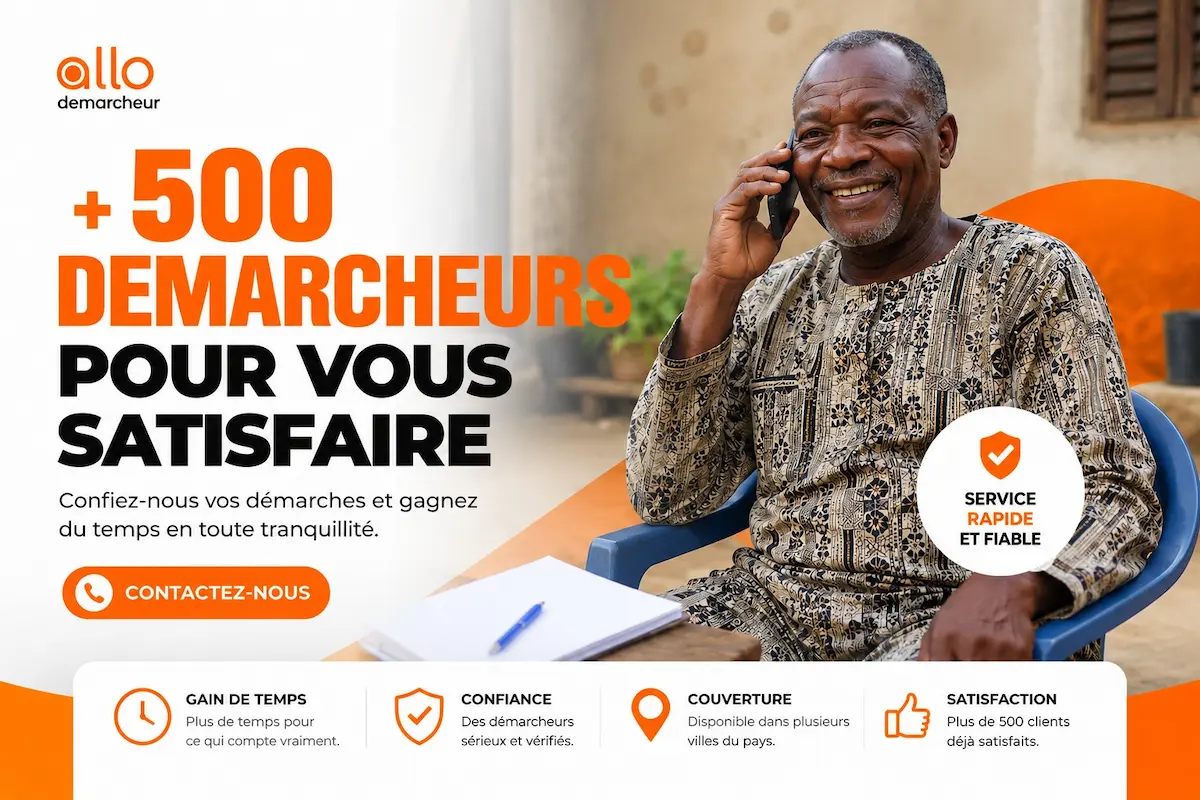
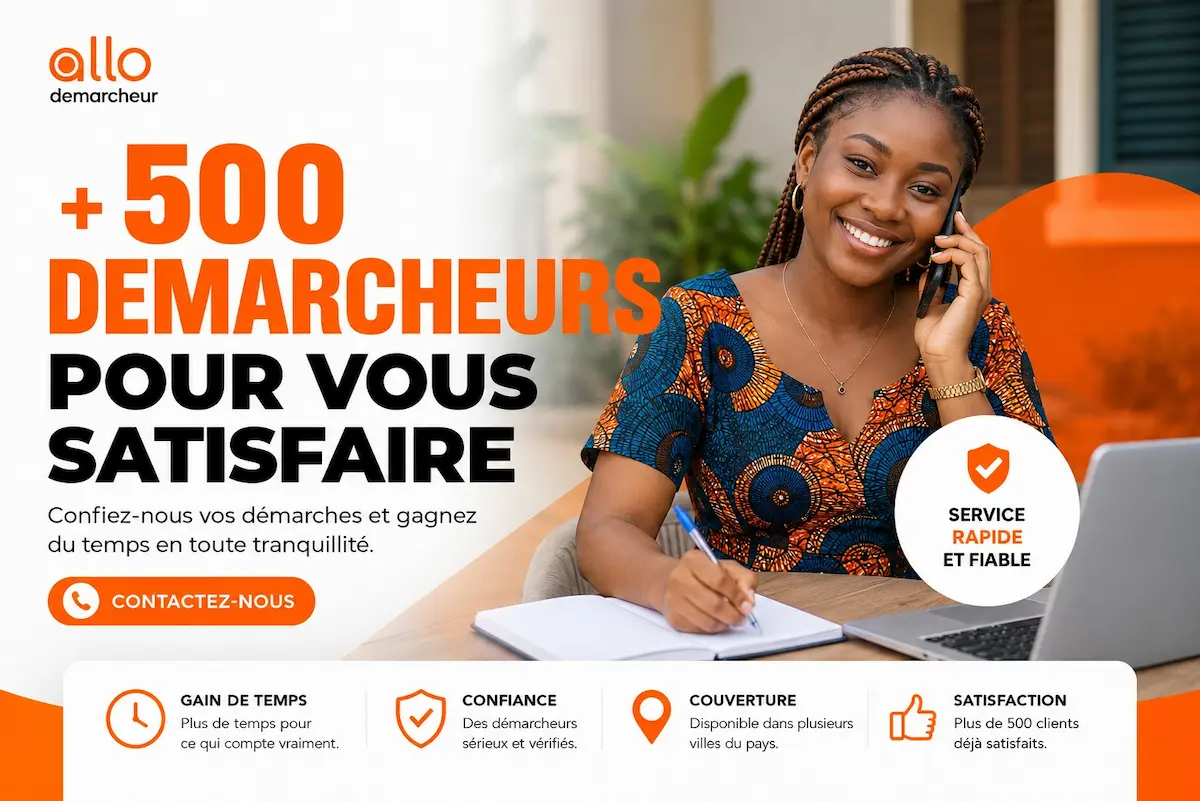
poerssss

diff --git a/demarcheur.html b/demarcheur.html
@@ -116,15 +116,18 @@
                         <div class="hero-carousel" aria-label="Galerie démarcheur">
                             <div class="hero-carousel-track">
                                 <img src="images/uxdemarcheur1.webp" alt="Service immobilier" class="hero-carousel-slide visual-card-img active" style="width: 100%; height: 100%;">
-                                
+                                <img src="images/uxdemarcheur2.webp" alt="Réseau démarcheur" class="hero-carousel-slide visual-card-img" style="width: 100%; height: 100%;">
                                 <img src="images/uxdemarcheur3.webp" alt="Réseau démarcheur" class="hero-carousel-slide visual-card-img" style="width: 100%; height: 100%;">
                                 <img src="images/uxdemarcheur4.webp" alt="Réseau démarcheur" class="hero-carousel-slide visual-card-img" style="width: 100%; height: 100%;">
+                                <img src="images/uxdemarcheur5.webp" alt="Réseau démarcheur" class="hero-carousel-slide visual-card-img" style="width: 100%; height: 100%;">
                                 
                             </div>
                             <div class="hero-carousel-dots">
                                 <span class="hero-dot active" data-slide="0"></span>
                                 <span class="hero-dot" data-slide="1"></span>
                                 <span class="hero-dot" data-slide="2"></span>
+                                <span class="hero-dot" data-slide="3"></span>
+                                <span class="hero-dot" data-slide="4"></span>
                             </div>
                         </div>
                     </div>

diff --git a/index.html b/index.html
@@ -114,14 +114,10 @@
                 <!-- Left (Bottom on Mobile): Text and Search Buttons -->
                 <div class="hero-text-content" style="width: 100%; display: flex; flex-direction: column; align-items: center; text-align: center;">
                     <h1 class="hero-title big-title">
-                        <span class="hero-title-line">Plus de <span style="color: var(--color-primary);">500 démarcheurs</span></span>
-                        <span class="hero-title-line">sont au courant de</span>
-                        <span class="hero-title-line">votre besoin de location</span>
-                        <span class="hero-title-line" style="color: var(--color-primary);">en un clic et</span>
-                        <span class="hero-title-line" style="color: var(--color-primary);">selon votre budget.</span>
+                        Une seule demande, <span style="color: var(--color-primary);">plusieurs propositions</span> selon votre budget.
                     </h1>
                     <p class="hero-paragraph highlight-paragraph" style="color: var(--color-text-main); font-weight: 700; text-transform: uppercase;">
-                        Une seule demande, plusieurs propositions selon votre budget.
+                        1er plateforme qui connecte les chercheurs de logement à un réseau de démarcheurs certifié
                     </p>
 
                     <div class="hero-search-panel">
